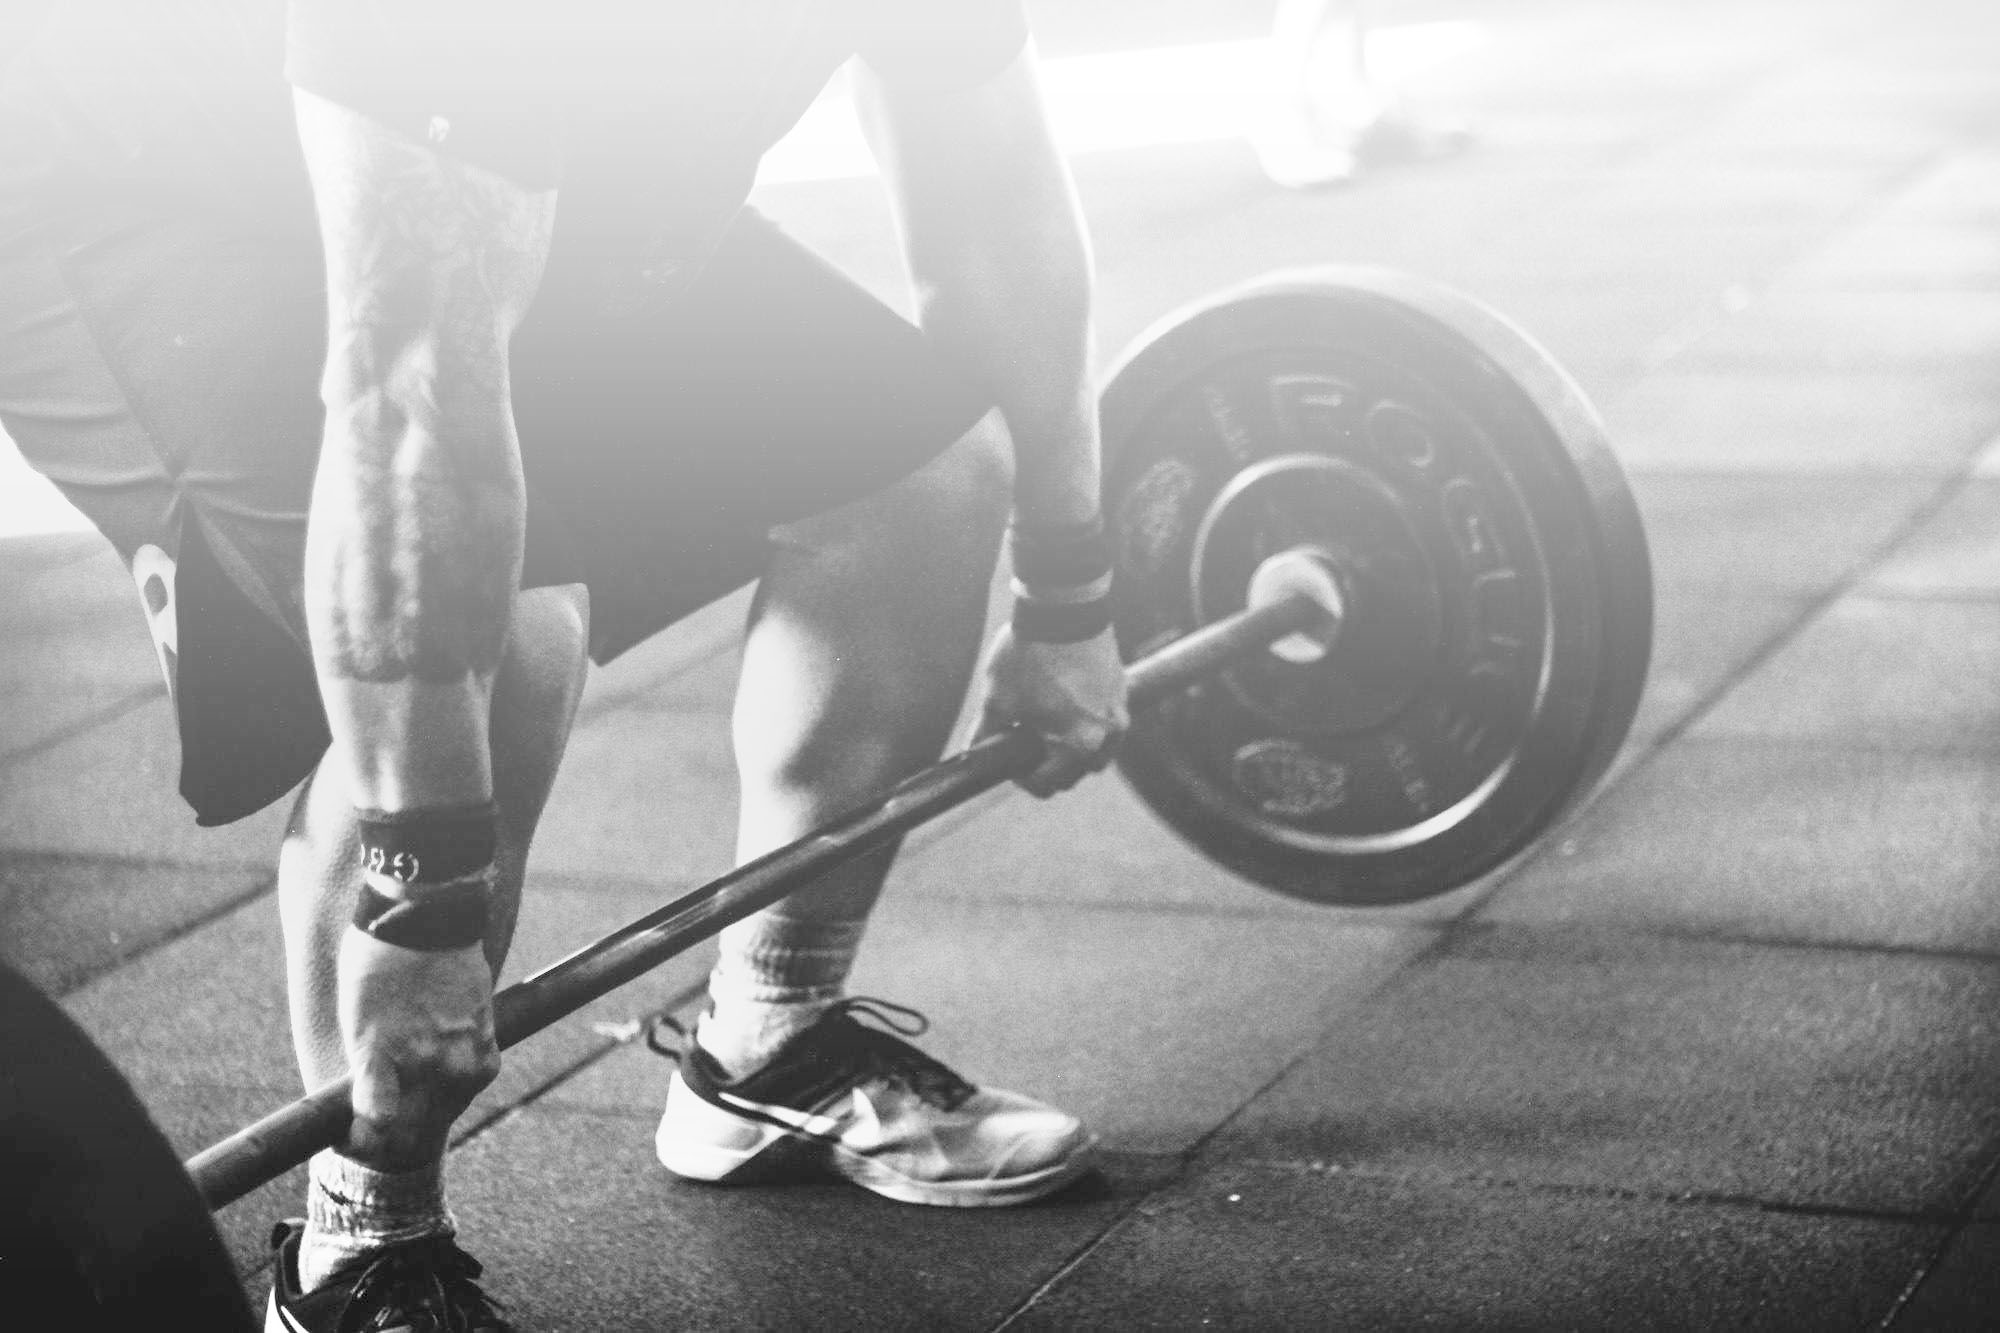
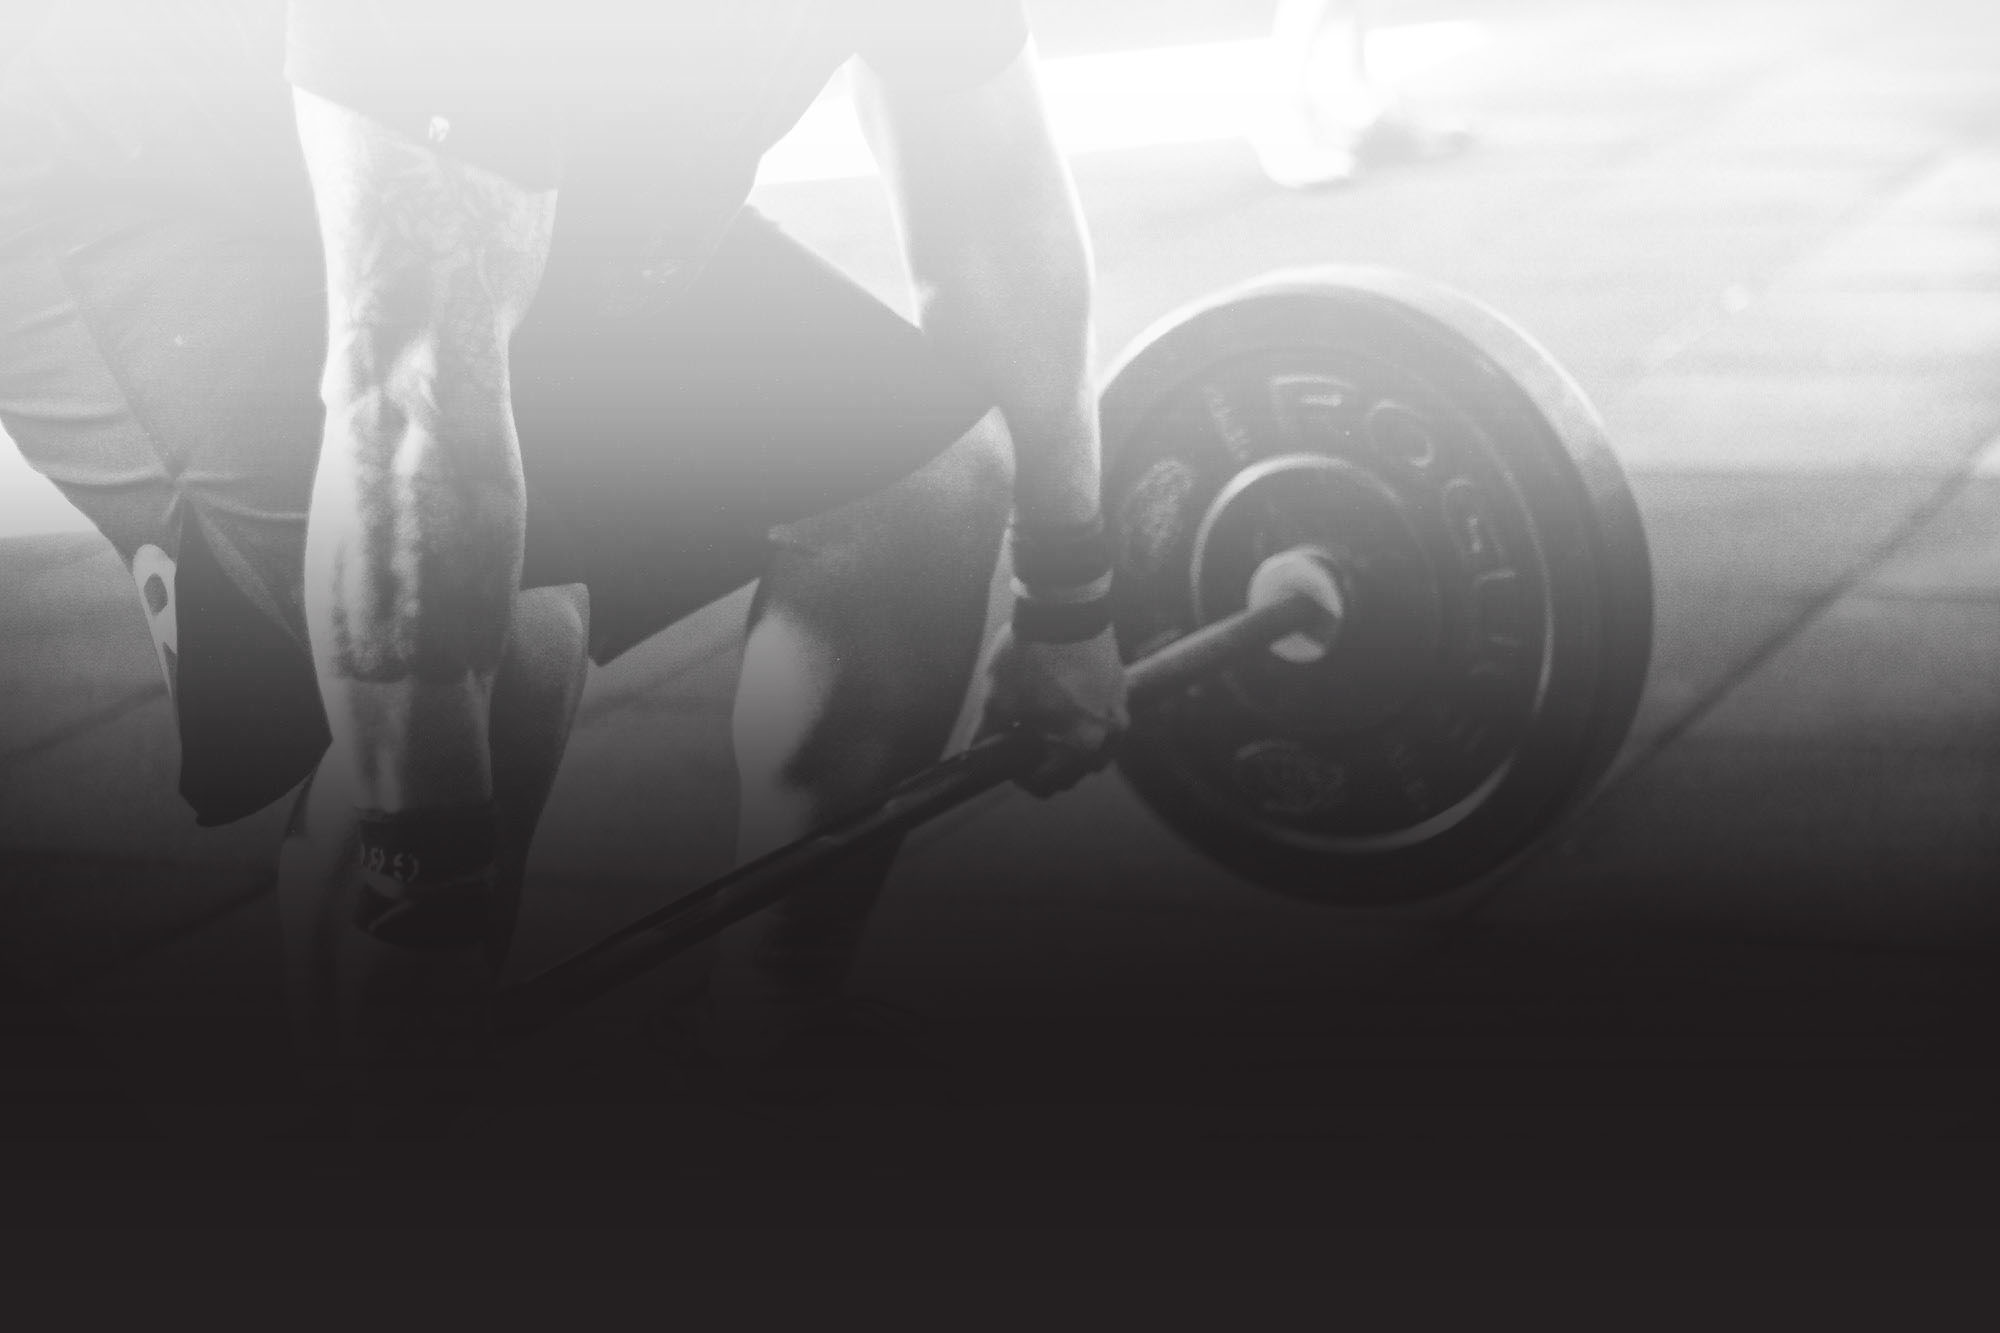
lowered brightness on background images

diff --git a/src/components/whatWeOffer/WhatWeOffer.jsx b/src/components/whatWeOffer/WhatWeOffer.jsx
@@ -16,7 +16,7 @@ const WhatWeOffer = () => {
       details: {
         title: "CrossFit",
         icon: <SiReactiveresume />,
-        text: "CrossFit se define como movimiento funcional constantemente variado, ¡y eso es exactamente lo que ofrecen las clases de CrossFit en NGU. Nuestras sesiones en grupos pequeños te brindan tu propio espacio de entrenamiento, un equipo de compañeros que te apoya y un coach de CrossFit dedicado a ti."
+        text: "CrossFit se define como movimiento funcional constantemente variado, y eso es exactamente lo que ofrecen las clases de CrossFit en NGU. Nuestras sesiones en grupos pequeños te brindan tu propio espacio de entrenamiento, un equipo de compañeros que te apoya y un coach de CrossFit dedicado a ti."
       }
     },
     {

diff --git a/src/components/membership/Card.jsx b/src/components/membership/Card.jsx
@@ -6,7 +6,7 @@ import { LuDumbbell } from "react-icons/lu";
 const Card = ({ card }) => {
     return (
         <div className={`${styles.container} animate`}>
-            <h2>{card.heading}</h2>
+            <h2 className={styles.heading}>{card.heading}</h2>
             <h3>{card.subHeading}</h3>
             <ul className={styles.bulletPoints}>
                 {card.contents.map((text, index) => (

diff --git a/src/components/membership/card.module.css b/src/components/membership/card.module.css
@@ -32,6 +32,11 @@
   border: 2px solid #417BC7;
 }
 
+.heading {
+  border-bottom: 2px solid;
+  padding-bottom: 15px;
+}
+
 .bulletPoints {
   display: flex;
   flex-direction: column;

diff --git a/src/components/heroSection/heroSection.module.css b/src/components/heroSection/heroSection.module.css
@@ -9,8 +9,8 @@
 }
 
 .content {
-  height: 90vh;
-  min-height: 800px;
+  height: 85vh;
+  min-height: 700px;
   display: flex;
   flex-direction: column;
   gap: 40px;
